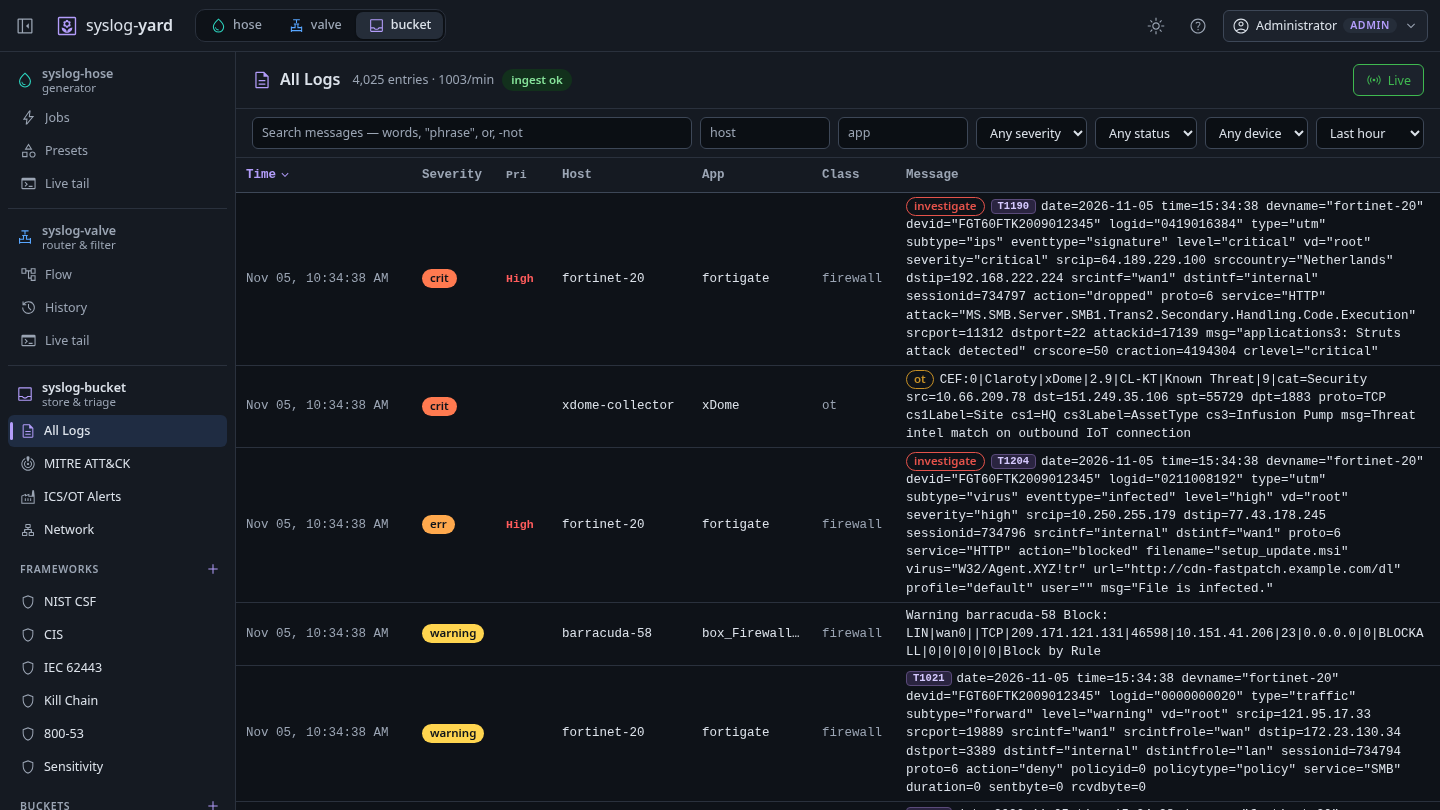
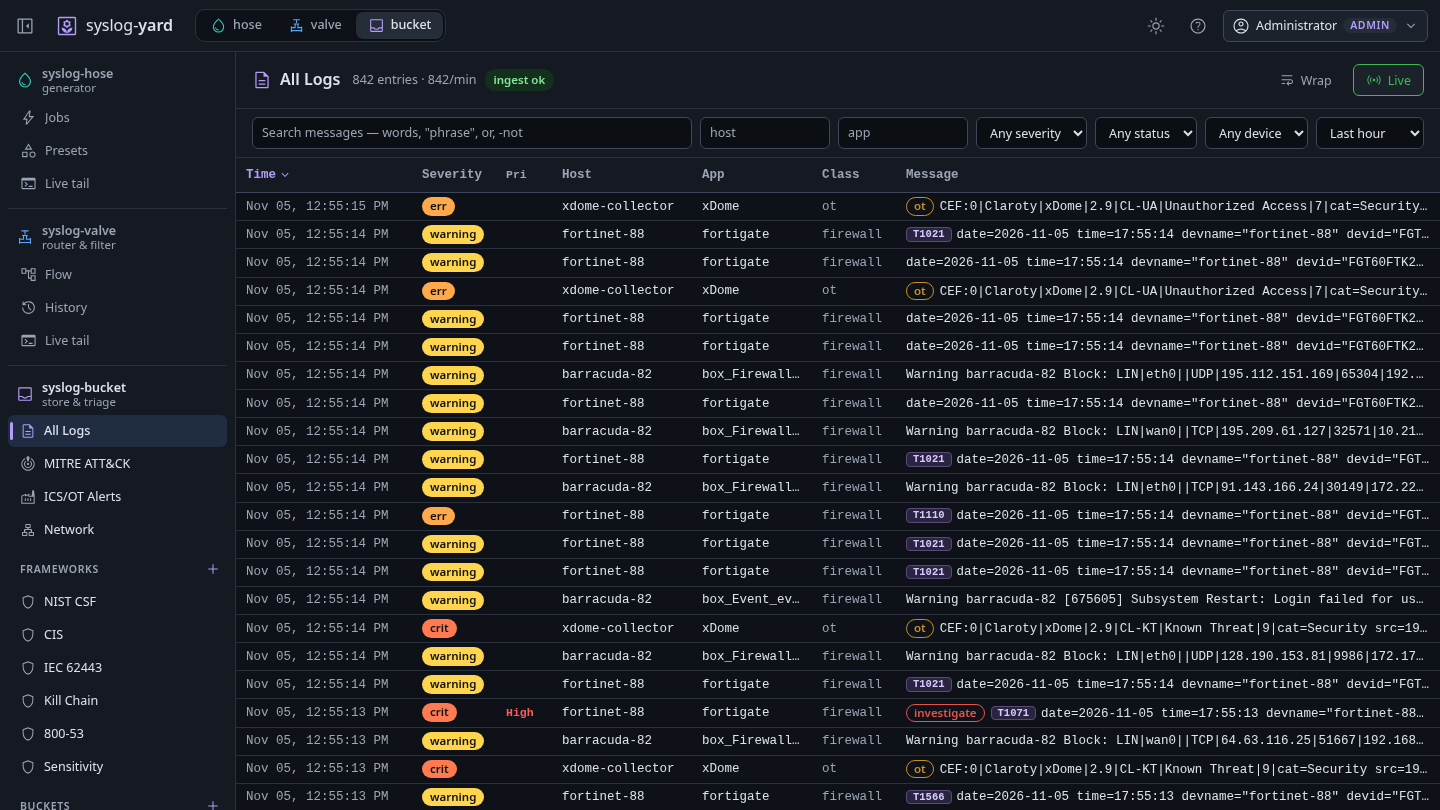
bucket web: Compact/Wrap toggle for the log table
Compact, the new default, keeps each entry to one line (ellipsis, full
message on hover and in the detail pane): about 21 rows fit on a
1440x810 screen against 6 with FortiGate messages wrapped. Wrap keeps the
full-message view. Remembered per browser (bucket-log-density). Adds the
wrap_text and density_small Material icons to the shared set, and the
README hero shot now shows the compact table.

Changed region(s): [[0.1562, 0.2469, 1.0, 1.0], [0.25, 0.0926, 0.375, 0.1235], [0.9062, 0.0926, 0.9375, 0.1235]]

diff --git a/apps/syslog-bucket/web/src/App.tsx b/apps/syslog-bucket/web/src/App.tsx
@@ -35,7 +35,7 @@ import type {
   User,
 } from "./types";
 import { AppShell } from "../../../shared/web/src/AppShell";
-import { useHashRoute } from "../../../shared/web/src/hooks";
+import { useHashRoute, useStoredState } from "../../../shared/web/src/hooks";
 import { ApiError } from "../../../shared/web/src/http";
 import { Login } from "../../../shared/web/src/Login";
 import { Badge, Banner, Button, EmptyState, Loading, PageHeader } from "../../../shared/web/src/ui";
@@ -211,6 +211,8 @@ function Workspace({
   const [entries, setEntries] = useState<Entry[]>([]);
   const [selected, setSelected] = useState<Entry | null>(null);
   const [live, setLive] = useState(true);
+  // One line per log row (default) or wrapped messages; per browser.
+  const [density, setDensity] = useStoredState<"compact" | "wrap">("bucket-log-density", "compact");
   const [stats, setStats] = useState<Stats | null>(null);
   const [error, setError] = useState<string | null>(null);
   const [buckets, setBuckets] = useState<Bucket[]>([]);
@@ -614,15 +616,26 @@ function Workspace({
             meta={statsMeta}
             actions={
               !isMatrix && (
-                <Button
-                  className={live && wsOpen ? "live on" : "live"}
-                  icon={live ? "sensors" : "pause"}
-                  aria-pressed={live}
-                  title={live ? "Pause the live tail" : "Resume the live tail"}
-                  onClick={() => setLive(!live)}
-                >
-                  {live ? (wsOpen ? "Live" : "Connecting…") : "Paused"}
-                </Button>
+                <>
+                  <Button
+                    variant="quiet"
+                    icon={density === "compact" ? "wrap_text" : "density_small"}
+                    aria-pressed={density === "wrap"}
+                    title={density === "compact" ? "Wrap long messages" : "One line per entry"}
+                    onClick={() => setDensity(density === "compact" ? "wrap" : "compact")}
+                  >
+                    {density === "compact" ? "Wrap" : "Compact"}
+                  </Button>
+                  <Button
+                    className={live && wsOpen ? "live on" : "live"}
+                    icon={live ? "sensors" : "pause"}
+                    aria-pressed={live}
+                    title={live ? "Pause the live tail" : "Resume the live tail"}
+                    onClick={() => setLive(!live)}
+                  >
+                    {live ? (wsOpen ? "Live" : "Connecting…") : "Paused"}
+                  </Button>
+                </>
               )
             }
           />
@@ -667,6 +680,7 @@ function Workspace({
                   onSelectTechnique={onSelectTechnique}
                   olderState={olderState}
                   onLoadOlder={() => void loadOlder()}
+                  compact={density === "compact"}
                 />
                 {selected && (
                   <EntryDetail

diff --git a/apps/shared/web/src/Icon.tsx b/apps/shared/web/src/Icon.tsx
@@ -57,6 +57,8 @@ export type IconName =
   | "history"
   | "account_tree"
   | "sell"
+  | "density_small"
+  | "wrap_text"
   | "error"
   | "warning"
   | "check_circle"
@@ -114,6 +116,8 @@ const PATHS: Record<IconName, string> = {
   "history": "M477-120q-149 0-253-105.5T120-481h60q0 125 86 213t211 88q127 0 215-89t88-216q0-124-89-209.5T477-780q-68 0-127.5 31T246-667h105v60H142v-208h60v106q52-61 123.5-96T477-840q75 0 141 28t115.5 76.5Q783-687 811.5-622T840-482q0 75-28.5 141t-78 115Q684-177 618-148.5T477-120Zm128-197L451-469v-214h60v189l137 134-43 43Z",
   "account_tree": "M604-120v-125H450v-410h-93v130H80v-315h277v125h247v-125h276v315H604v-130h-94v350h94v-130h276v315H604ZM140-780v195-195Zm524 405v195-195Zm0-405v195-195Zm0 195h156v-195H664v195Zm0 405h156v-195H664v195ZM140-585h157v-195H140v195Z",
   "sell": "M863-404 557-97q-9 8.5-20.25 12.75T514.25-80Q503-80 492-84.5T472-97L98-472q-8-8-13-18.96-5-10.95-5-23.04v-306q0-24.75 17.63-42.38Q115.25-880 140-880h307q12.07 0 23.39 4.87Q481.7-870.25 490-862l373 373q9.39 9 13.7 20.25 4.3 11.25 4.3 22.5t-4.5 22.75Q872-412 863-404ZM516-138l306-307-375-375H140v304l376 378ZM245-664q21 0 36.5-15.5T297-716q0-21-15.5-36.5T245-768q-21 0-36.5 15.5T193-716q0 21 15.5 36.5T245-664Zm236 185Z",
+  "density_small": "M120-80v-60h720v60H120Zm0-247v-60h720v60H120Zm0-246v-60h720v60H120Zm0-247v-60h720v60H120Z",
+  "wrap_text": "M579-130 440-270l139-141 42 43-67 69h141q35 0 60-25.5t25-60.5q0-35-25-60t-60-25H160v-60h535q60 0 102.5 42.5T840-385q0 60-42.5 103T695-239H554l67 66-42 43ZM160-239v-60h200v60H160Zm0-461v-60h640v60H160Z",
   "error": "M479.98-280q14.02 0 23.52-9.48t9.5-23.5q0-14.02-9.48-23.52t-23.5-9.5q-14.02 0-23.52 9.48t-9.5 23.5q0 14.02 9.48 23.52t23.5 9.5ZM453-433h60v-253h-60v253Zm27.27 353q-82.74 0-155.5-31.5Q252-143 197.5-197.5t-86-127.34Q80-397.68 80-480.5t31.5-155.66Q143-709 197.5-763t127.34-85.5Q397.68-880 480.5-880t155.66 31.5Q709-817 763-763t85.5 127Q880-563 880-480.27q0 82.74-31.5 155.5Q817-252 763-197.68q-54 54.31-127 86Q563-80 480.27-80Zm.23-60Q622-140 721-239.5t99-241Q820-622 721.19-721T480-820q-141 0-240.5 98.81T140-480q0 141 99.5 240.5t241 99.5Zm-.5-340Z",
   "warning": "m40-120 440-760 440 760H40Zm104-60h672L480-760 144-180Zm340.18-57q12.82 0 21.32-8.68 8.5-8.67 8.5-21.5 0-12.82-8.68-21.32-8.67-8.5-21.5-8.5-12.82 0-21.32 8.68-8.5 8.67-8.5 21.5 0 12.82 8.68 21.32 8.67 8.5 21.5 8.5ZM454-348h60v-224h-60v224Zm26-122Z",
   "check_circle": "m421-298 283-283-46-45-237 237-120-120-45 45 165 166Zm59 218q-82 0-155-31.5t-127.5-86Q143-252 111.5-325T80-480q0-83 31.5-156t86-127Q252-817 325-848.5T480-880q83 0 156 31.5T763-763q54 54 85.5 127T880-480q0 82-31.5 155T763-197.5q-54 54.5-127 86T480-80Zm0-60q142 0 241-99.5T820-480q0-142-99-241t-241-99q-141 0-240.5 99T140-480q0 141 99.5 240.5T480-140Zm0-340Z",

diff --git a/apps/syslog-bucket/web/src/components/LogTable.tsx b/apps/syslog-bucket/web/src/components/LogTable.tsx
@@ -11,6 +11,10 @@
 // While the reader is scrolled away from the top of the newest-first
 // order, live arrivals don't move the view; a "N new" pill counts them and
 // scrolls back up.
+//
+// Compact mode keeps every row to one line (long messages are cut with an
+// ellipsis, full text on hover and in the detail pane); otherwise messages
+// wrap. Rows are re-measured on every render, so switching keeps the place.
 import { memo, useCallback, useLayoutEffect, useMemo, useRef, useState, type KeyboardEvent } from "react";
 import { Button, EmptyState } from "../../../../shared/web/src/ui";
 import { useVirtualRows } from "../../../../shared/web/src/virtual";
@@ -31,6 +35,7 @@ interface Props {
   onSelectTechnique: (id: string) => void;
   olderState: "idle" | "loading" | "end";
   onLoadOlder: () => void;
+  compact: boolean;
 }
 
 const PAGE_ROWS = 10;
@@ -74,6 +79,7 @@ function Rows({
   onSelectTechnique,
   olderState,
   onLoadOlder,
+  compact,
 }: Props) {
   const scrollRef = useRef<HTMLDivElement>(null);
   const tbodyRef = useRef<HTMLTableSectionElement>(null);
@@ -222,7 +228,7 @@ function Rows({
 
   return (
     <div className="logpane">
-      <div className="logtable" ref={scrollRef} tabIndex={-1} onKeyDown={onKey}>
+      <div className={compact ? "logtable compact" : "logtable"} ref={scrollRef} tabIndex={-1} onKeyDown={onKey}>
         <table className="data-table" aria-rowcount={entries.length + 1}>
           <caption className="sr-only">
             Log entries. Arrow keys or j and k move between rows, Enter opens one, Escape closes the details.
@@ -261,6 +267,7 @@ function Rows({
                 tagsById={tagsById}
                 selected={e.id === selectedId}
                 tabbable={e.id === tabbable}
+                compact={compact}
                 onSelect={select}
                 onSelectTechnique={selectTechnique}
               />
@@ -309,6 +316,7 @@ const Row = memo(function Row({
   tagsById,
   selected,
   tabbable,
+  compact,
   onSelect,
   onSelectTechnique,
 }: {
@@ -317,6 +325,7 @@ const Row = memo(function Row({
   tagsById: Map<number, Tag>;
   selected: boolean;
   tabbable: boolean;
+  compact: boolean;
   onSelect: (e: Entry) => void;
   onSelectTechnique: (id: string) => void;
 }) {
@@ -337,7 +346,7 @@ const Row = memo(function Row({
       <td className="col-host">{e.host}</td>
       <td className="col-app">{e.app_name}</td>
       <td className="col-class">{e.device_class || ""}</td>
-      <td className="col-msg">
+      <td className="col-msg" title={compact ? e.msg : undefined}>
         {(e.tag_ids ?? []).map((id) => {
           const tag = tagsById.get(id);
           return tag ? <TagChip key={id} tag={tag} /> : null;

diff --git a/apps/syslog-bucket/web/src/styles.css b/apps/syslog-bucket/web/src/styles.css
@@ -259,6 +259,13 @@ button.live.on {
   white-space: normal;
   word-break: break-word;
 }
+/* compact: one line per entry; the full message is in the title and the
+   detail pane */
+.logtable.compact td.col-msg {
+  white-space: nowrap;
+  overflow: hidden;
+  text-overflow: ellipsis;
+}
 .logtable td.col-host,
 .logtable td.col-app {
   overflow: hidden;

diff --git a/CHANGELOG.md b/CHANGELOG.md
@@ -15,6 +15,13 @@ All notable changes to syslog-yard are recorded here. The format follows
   missing one, so a concurrent edit can no longer slip between the check
   and the write. Disabled rules still never block a delete ([#29]).
 
+### Added
+
+- bucket: a Compact/Wrap toggle above the log table. Compact (the new
+  default) keeps each entry to one line, with the full message on hover and
+  in the detail pane, so about three times as many rows fit on screen; Wrap
+  shows long messages in full. The choice is remembered per browser.
+
 ## [0.2.0] - 2026-11-05
 
 Upgrade, then re-apply the valve flow once so syslog-ng picks up per-message
